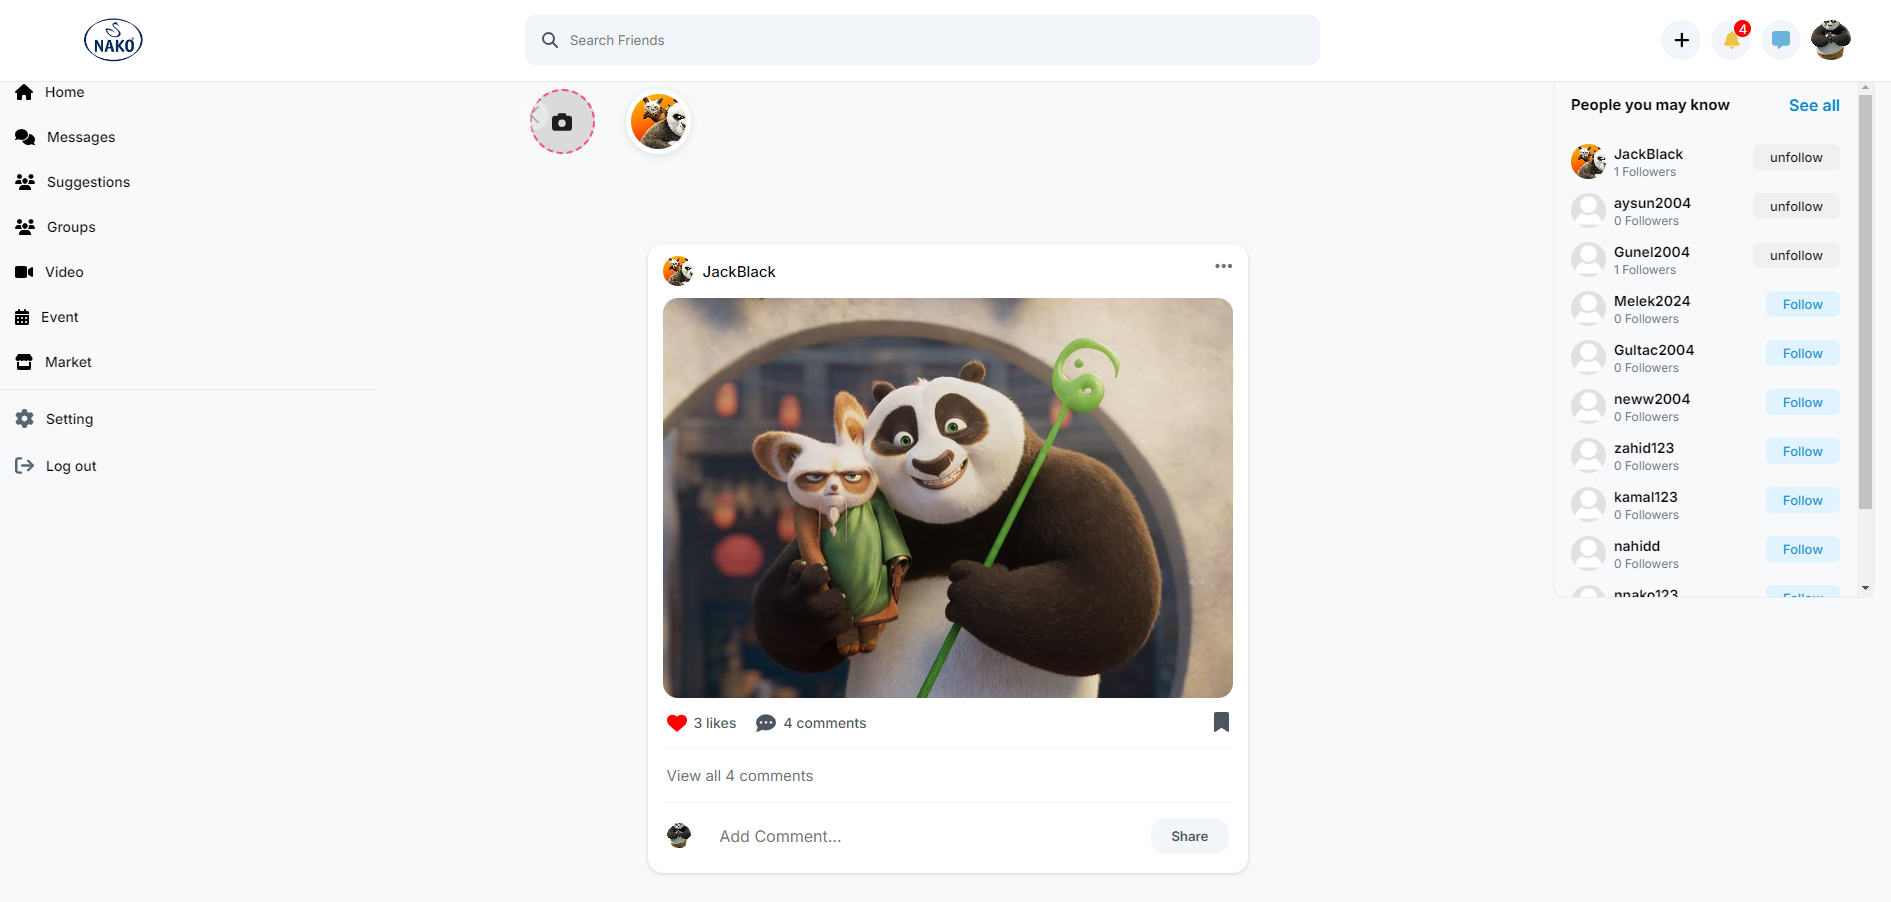
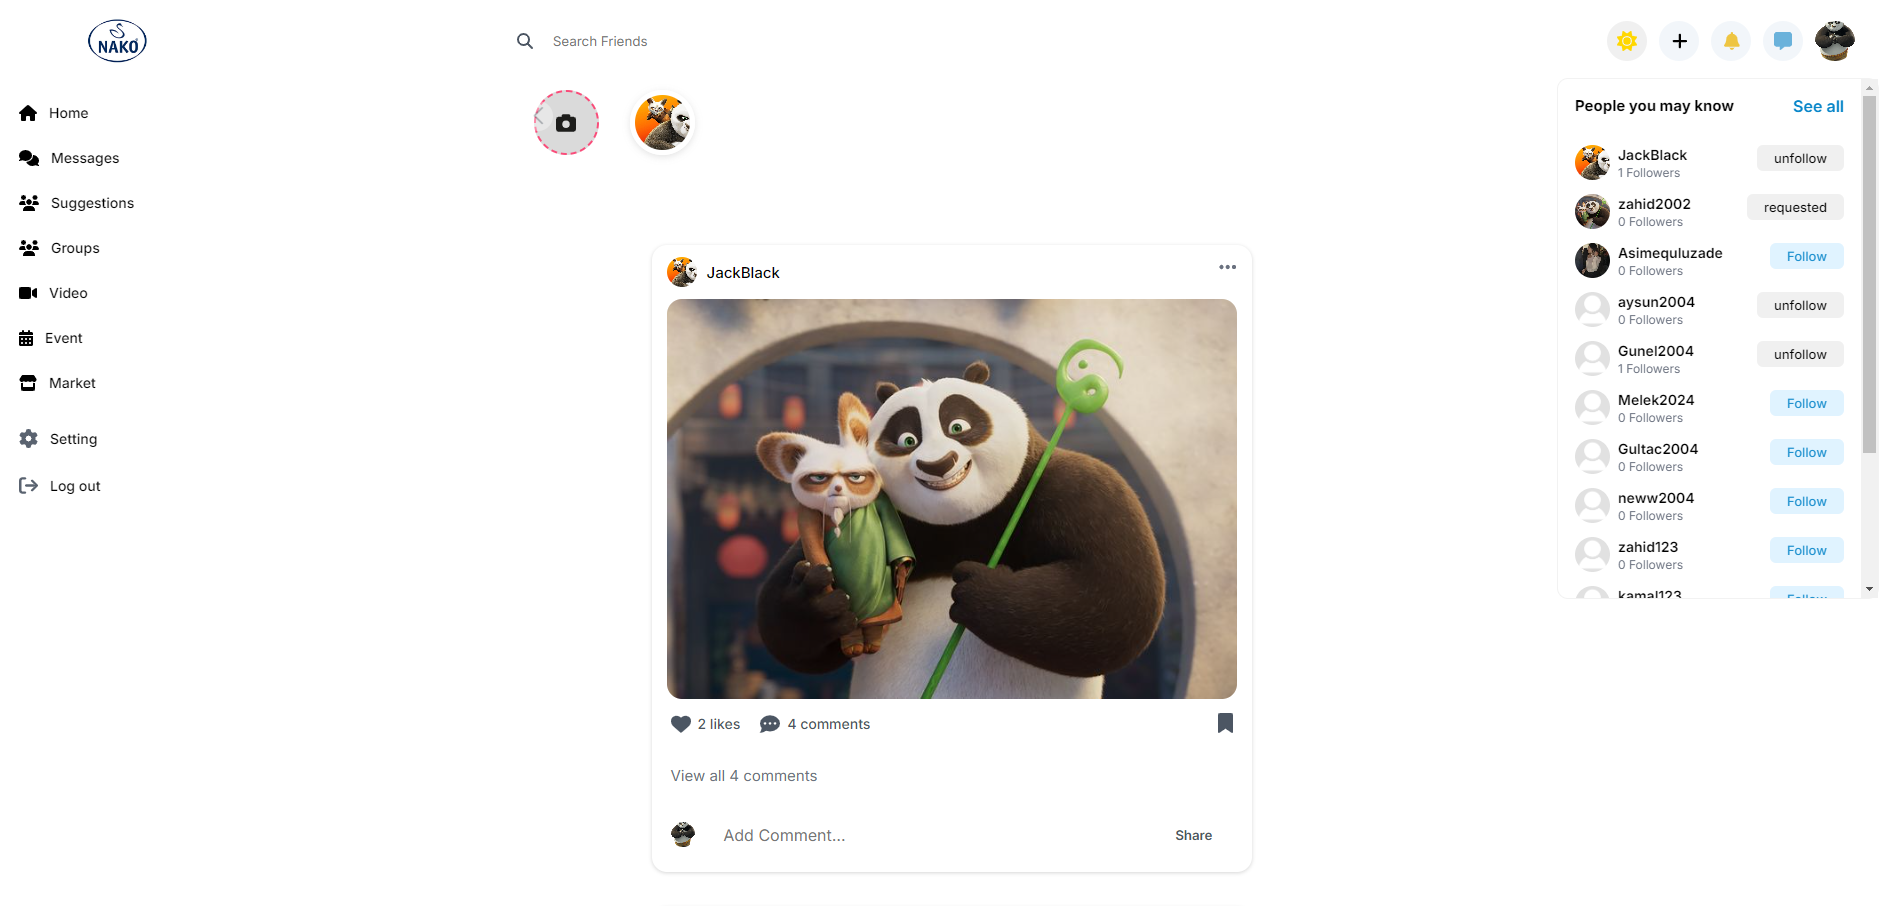
Darkmode

diff --git a/src/pages/Project.jsx b/src/pages/Project.jsx
@@ -59,7 +59,7 @@ function Project() {
                         name={"Social Media Website"}
                         image={"/images/pro2.png"}
                         about={
-                            "It is built on React+TypeScript, backend using MONGODB, Express JS. It is also mobile responsive and not fully finished 😉"
+                            "It is built on React+TypeScript, backend using MONGODB, Express JS. It is also mobile responsive and not fully finished 🌞"
                         }
                         demo={"https://social-sebeke-nako.vercel.app"}
                         code={""}
@@ -68,16 +68,29 @@ function Project() {
                 </SwiperSlide>
                 <SwiperSlide>
                     <ProjectCard
-                        name={"Another Project"}
+                        name={"Social Media Website"}
+                        image={"/images/pro4.png"}
+                        about={
+                            "Dark Mode to social media website...🌛"
+                        }
+                        demo={"https://example.com"}
+                        code={""}
+                        onImageClick={() => handleOpenModal("/images/pro4.png")}
+                    />
+                </SwiperSlide>
+                <SwiperSlide>
+                    <ProjectCard
+                        name={"Social Media Website"}
                         image={"/images/pro3.png"}
                         about={
-                            "A brief description of this project."
+                            "Login to social media website...ℳ"
                         }
                         demo={"https://example.com"}
                         code={""}
                         onImageClick={() => handleOpenModal("/images/pro3.png")}
                     />
                 </SwiperSlide>
+
             </Swiper>
 
             {/* Fullscreen Modal */}
